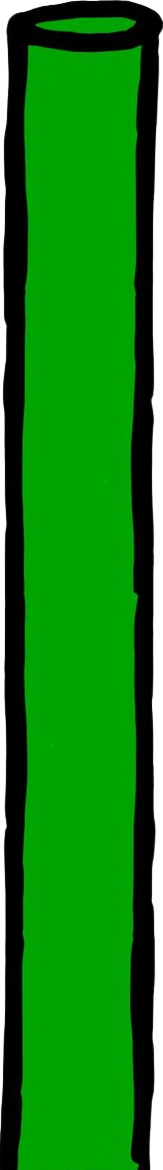
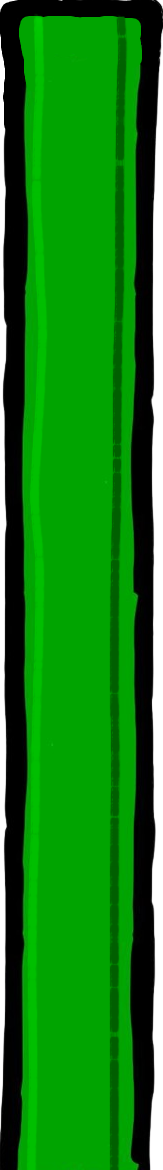
paar änderungen

Changed region(s): [[0.0, 0.0, 1.0, 1.0]]

diff --git a/OOPGames/OOPGames/Classes/D_Gruppe/JLJ_FlappyBird.cs b/OOPGames/OOPGames/Classes/D_Gruppe/JLJ_FlappyBird.cs
@@ -74,7 +74,7 @@ namespace OOPGames
             var birdImage = new Image
             {
                 Width = field.Bird.Radius * 4,
-                Height = field.Bird.Radius * 4,
+                Height = field.Bird.Radius * 4.2,
                 Source = new BitmapImage(new Uri("/Classes/D_Gruppe/Grafiken/bird.png", UriKind.Relative))
             };
 
@@ -82,19 +82,30 @@ namespace OOPGames
             double centerX = birdImage.Width / 2;
             double centerY = birdImage.Height / 2;
 
-            // Berechnung des Rotationswinkels basierend auf Geschwindigkeit
-            double rotationAngle = Clamp(field.Bird.Velocity * 3, -45, 45); // Beschränkung auf -45° bis 45°
+            // Berechnung des Rotationswinkels basierend auf Geschwindigkeit (Richtung umkehren)
+            double rotationAngle = Clamp(field.Bird.Velocity * 3, -45, 45); // Positiv = nach unten, Negativ = nach oben
 
             // Transformation anwenden
             var rotateTransform = new RotateTransform(rotationAngle, centerX, centerY);
             birdImage.RenderTransform = rotateTransform;
 
             // Positionierung des Bilds
-            Canvas.SetTop(birdImage, field.Bird.Y - field.Bird.Radius - 15);
+            Canvas.SetTop(birdImage, field.Bird.Y - field.Bird.Radius - 14);
             Canvas.SetLeft(birdImage, field.Bird.X - field.Bird.Radius - 17);
 
             // Bild zur Zeichenfläche hinzufügen
             canvas.Children.Add(birdImage);
+
+            //// Vogel zeichnen
+            //var bird = new Ellipse
+            //{
+            //    Width = field.Bird.Radius * 2,
+            //    Height = field.Bird.Radius * 2,
+            //    Fill = Brushes.Yellow
+            //};
+            //Canvas.SetTop(bird, field.Bird.Y - field.Bird.Radius);
+            //Canvas.SetLeft(bird, field.Bird.X - field.Bird.Radius);
+            //canvas.Children.Add(bird);
         }
 
 
@@ -102,17 +113,6 @@ namespace OOPGames
         {
             foreach (var tube in field.Obstacles)
             {
-                var topPipeImage = new Image
-                {
-                    Width = tube.Width,
-                    Height = tube.TopHeight,
-                    Source = new BitmapImage(new Uri("/Classes/D_Gruppe/Grafiken/Pipe_oben.png", UriKind.Relative)),
-                    Stretch = Stretch.Fill
-                };
-                Canvas.SetTop(topPipeImage, 0);
-                Canvas.SetLeft(topPipeImage, tube.X);
-                canvas.Children.Add(topPipeImage);
-
                 //// Oberer Pfeiler
                 //var topPillar = new Rectangle
                 //{
@@ -124,16 +124,16 @@ namespace OOPGames
                 //Canvas.SetLeft(topPillar, tube.X);
                 //canvas.Children.Add(topPillar);
 
-                var bottomPipeImage = new Image
+                var topPipeImage = new Image
                 {
                     Width = tube.Width,
-                    Height = field.Height - (tube.TopHeight + tube.GapSize),
-                    Source = new BitmapImage(new Uri("/Classes/D_Gruppe/Grafiken/Pipe_unten.png", UriKind.Relative)),
+                    Height = tube.TopHeight,
+                    Source = new BitmapImage(new Uri("/Classes/D_Gruppe/Grafiken/Pipe_oben.png", UriKind.Relative)),
                     Stretch = Stretch.Fill
                 };
-                Canvas.SetTop(bottomPipeImage, tube.TopHeight + tube.GapSize);
-                Canvas.SetLeft(bottomPipeImage, tube.X);
-                canvas.Children.Add(bottomPipeImage);
+                Canvas.SetTop(topPipeImage, 0);
+                Canvas.SetLeft(topPipeImage, tube.X);
+                canvas.Children.Add(topPipeImage);
 
                 //// Unterer Pfeiler
                 //var bottomPillar = new Rectangle
@@ -145,6 +145,17 @@ namespace OOPGames
                 //Canvas.SetTop(bottomPillar, tube.TopHeight + tube.GapSize);
                 //Canvas.SetLeft(bottomPillar, tube.X);
                 //canvas.Children.Add(bottomPillar);
+
+                var bottomPipeImage = new Image
+                {
+                    Width = tube.Width,
+                    Height = field.Height - (tube.TopHeight + tube.GapSize),
+                    Source = new BitmapImage(new Uri("/Classes/D_Gruppe/Grafiken/Pipe_unten.png", UriKind.Relative)),
+                    Stretch = Stretch.Fill
+                };
+                Canvas.SetTop(bottomPipeImage, tube.TopHeight + tube.GapSize);
+                Canvas.SetLeft(bottomPipeImage, tube.X);
+                canvas.Children.Add(bottomPipeImage);
             }
         }
 
@@ -438,7 +449,7 @@ namespace OOPGames
                     int gapY = rnd.Next(minGapY, maxGapY + 1);
 
                     // Neues Hindernis erstellen
-                    field.Obstacles.Add(new D_Tubes(field.Width - 30, gapY, 150, 40, field.Height));
+                    field.Obstacles.Add(new D_Tubes(field.Width - 30, gapY, 140, 50, field.Height));
                 }
 
                 // Bewege die Bodenstücke
